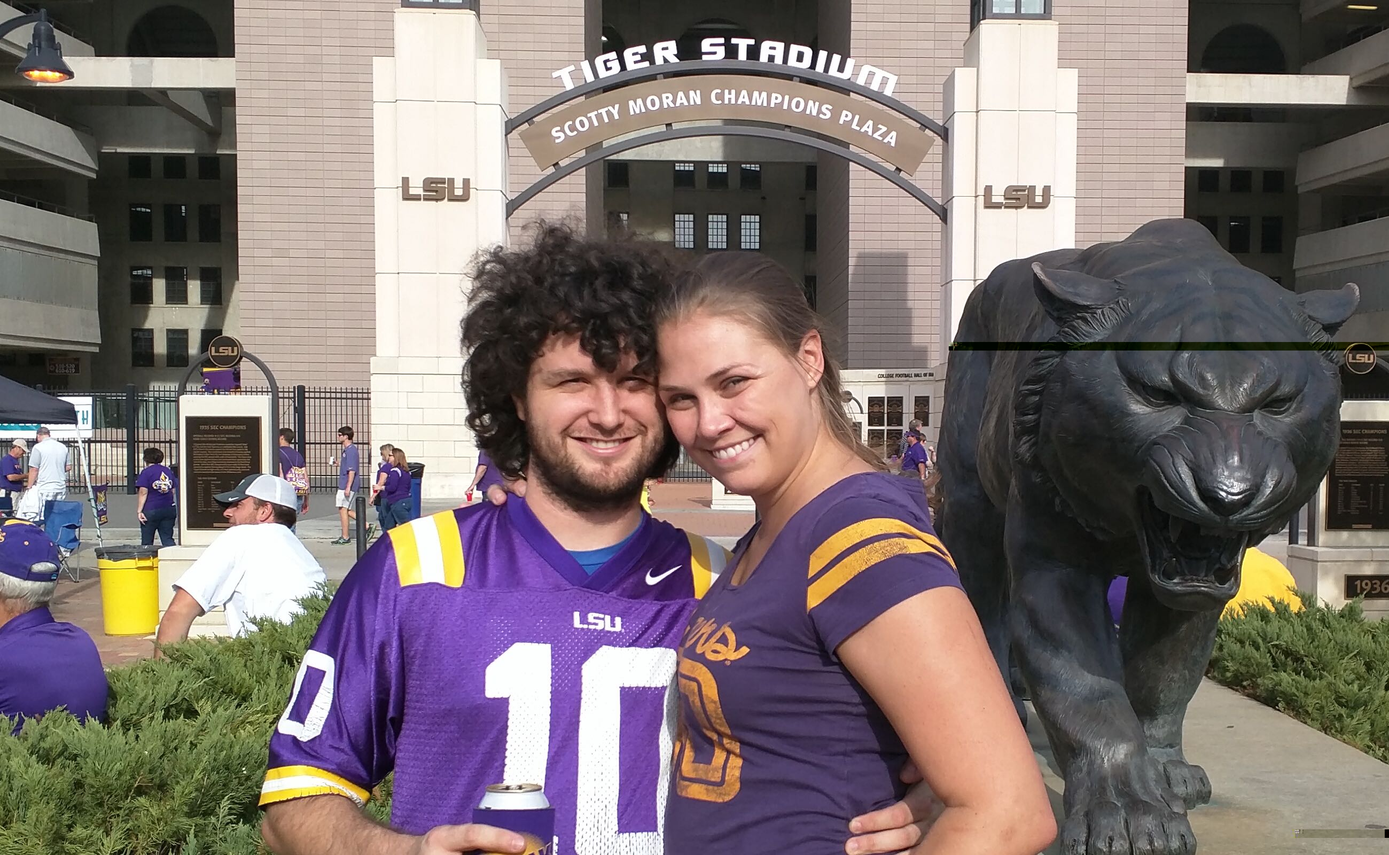
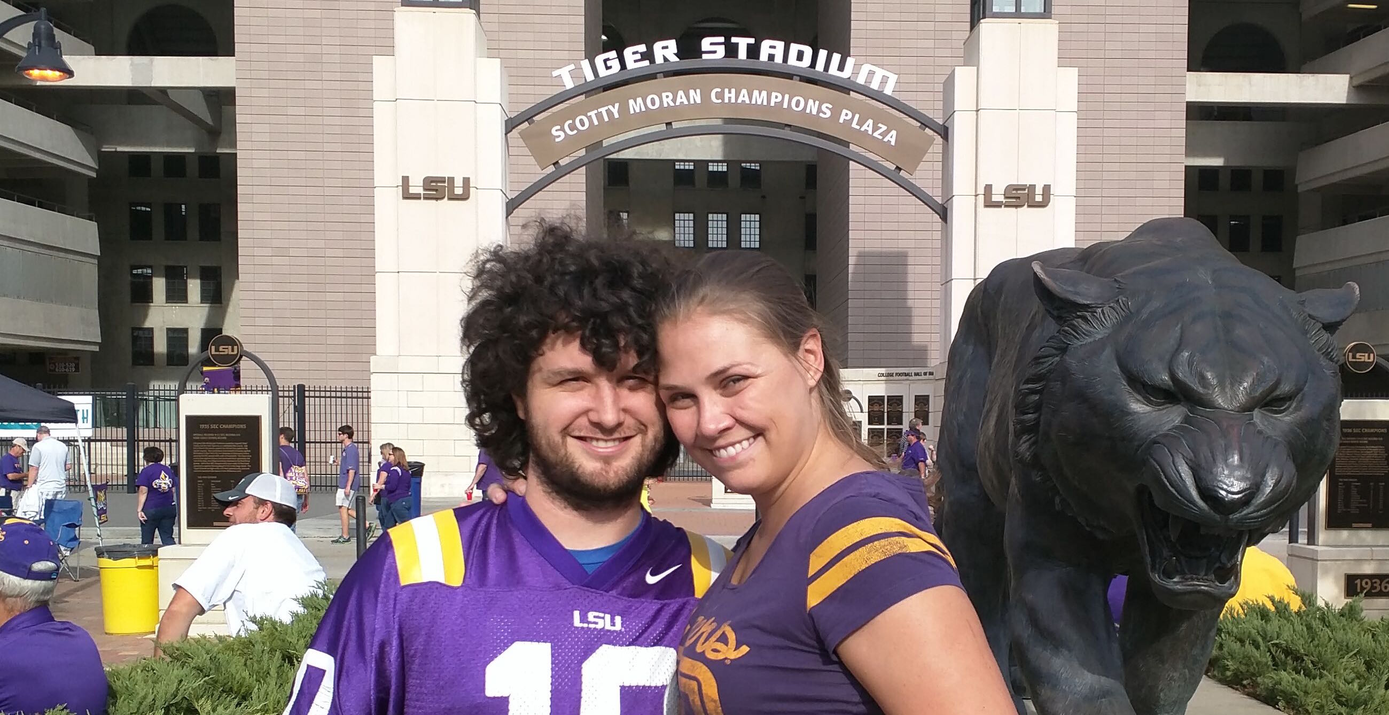
Update msy

diff --git a/client/app/parties/msy/msy.html b/client/app/parties/msy/msy.html
@@ -5,12 +5,12 @@
             <h2> When: April 16, 2016 </h2>
             <br>
             <h3> The Big Easy: </h3>
-            <p>This is Kyle's old stomping grounds. It is where he is from, and it is the best place to throw a party! We will
+            <p style="text-align:justify">This is Kyle's old stomping grounds. It is where he is from, and it is the best place to throw a party! We will
                 be holding a crawfish boil and celebrating the entire weekend! Prepare for non-stop fun, trips to the french
                 quarter, quite a few drinks, GREAT food and even <a href="http://www.pastemagazine.com/articles/2015/06/all-hail-the-drive-through-daiquiri.html"> Drive Through Daiquiris (Yes that is really a thing)</a>!
             </p>
             <h3>CRAWFISH!</h3>
-            <p>
+            <p style="text-align:justify">
                 Crawfish is a Louisiana "delicacy." Most parties between the end of January and the beginning of June showcase lots of beer,
                 mudbugs, and tons of fun. Prepare for outdoor fun games like cornhole, beerpong, and flip-cup. As for the
                 crawfish themselves, we usually make many batches over the course of a day - the latter batches usually get
@@ -19,7 +19,7 @@
             </p>
         </div>
         <div class="col-md-6 pull-right">
-            <img class="pull-right" height="480" src="/assets/images/meagan_kyle_lsu.jpg">
+            <img class="pull-right" width="100%" src="/assets/images/meagan_kyle_lsu.jpg">
         </div>
     </div>
     <div class="col-md-12">
@@ -27,58 +27,54 @@
             <iframe class="pull-left" width="100%" height="480" src="https://www.youtube.com/embed/EndhxlX7Df8" frameborder="1px" allowfullscreen></iframe>
         </div>
         <div class="col-md-6">
-            <h3>Where to stay.</h3>
-            <p>
-                New Orleans can be a tricky place to figure out where to stay.
-            </p>
-            <table>
+            <div>
+                <iframe src="https://www.google.com/maps/d/embed?mid=zskgaFZpiug8.k1-lbgyMDhY8" width="100%" height="250px"></iframe>
+            </div>
+            <table class="table table-striped">
                 <tbody>
                     <tr>
                         <td>
-                            <img src="assets/images/kayak.jpg" width="45px">
+                            <a href="https://www.kayak.com/hotels/New-Orleans,LA-c22085/2016-04-15/2016-04-17/2guests"><img src="assets/images/kayak.jpg" width="45px"></a>
                         </td>
                         <td>
                             <a href="https://www.kayak.com/hotels/New-Orleans,LA-c22085/2016-04-15/2016-04-17/2guests">Kayak</a>
                         </td>
-                        <td>
+                        <td style="text-align:justify">
                             This is the base line for prices.  Not the best, definitely not the worst.
                         </td>
                     </tr>
                     <tr>
                         <td>
-                            <img src="assets/images/airbnb_logo.png" width="45px">
+                            <a href="https://www.airbnb.com/s/New-Orleans--LA?checkin=04%2F15%2F2016&checkout=04%2F17%2F2016&guests=2&room_types%5B%5D=Entire+home%2Fapt&zoom=12&search_by_map=true&sw_lat=29.91298939773503&sw_lng=-90.26189145771963&ne_lat=30.051917469639292&ne_lng=-90.10876950947744&ss_id=ulrbpl0o&s_tag=sBUrRIEh"><img src="assets/images/airbnb_logo.png" width="45px"></a>
                         </td>
                         <td>
                             <a href="https://www.airbnb.com/s/New-Orleans--LA?checkin=04%2F15%2F2016&checkout=04%2F17%2F2016&guests=2&room_types%5B%5D=Entire+home%2Fapt&zoom=12&search_by_map=true&sw_lat=29.91298939773503&sw_lng=-90.26189145771963&ne_lat=30.051917469639292&ne_lng=-90.10876950947744&ss_id=ulrbpl0o&s_tag=sBUrRIEh">AirBnB</a>
                         </td>
-                        <td>
+                        <td style="text-align:justify">
                             A new age concept where you rent out someone's place for a day or two.  Usually on the more inexpensive end - be sure to get everything set up way ahead of time as there may be a small background check involved. 
                         </td>
                     </tr>
                     <tr>
                         <td>
-                            <img src="assets/images/priceline_logo.png" width="45px">
+                            <a href="https://www.priceline.com/stay/#/search/hotels/3000008413/20160415/20160417/1?map&page=1"><img src="assets/images/priceline_logo.png" width="45px"></a>
                         </td>
                         <td>
                             <a href="https://www.priceline.com/stay/#/search/hotels/3000008413/20160415/20160417/1?map&page=1">Priceline</a>
                         </td>
-                        <td>
+                        <td style="text-align:justify">
                             Check out hotels in Metairie (to be close to the party) or uptown/garden district/downtown (to be in New Orleans).  With Priceline, you can usually book day of with no issues.  
                         </td>
                     </tr>
                 </tbody>
             </table>
-            <div>
-                <iframe src="https://www.google.com/maps/d/embed?mid=zskgaFZpiug8.k1-lbgyMDhY8" width="360" height="360"></iframe>
-            </div>
         </div>
     </div>
     <div class="col-md-12">
         <div class="col-md-8 pull-right">
-            <img height="480" src="/assets/images/meagan_kyle_tigerstadium.jpg">
+            <img width="100%" src="/assets/images/meagan_kyle_tigerstadium.jpg">
         </div>
         <div class="col-md-4">
-            <h3> Things you will need for the weekend </h3>
+            <h3> Suggested Weekend Gear: </h3>
             <table>
                 <tbody>
                     <tr>
